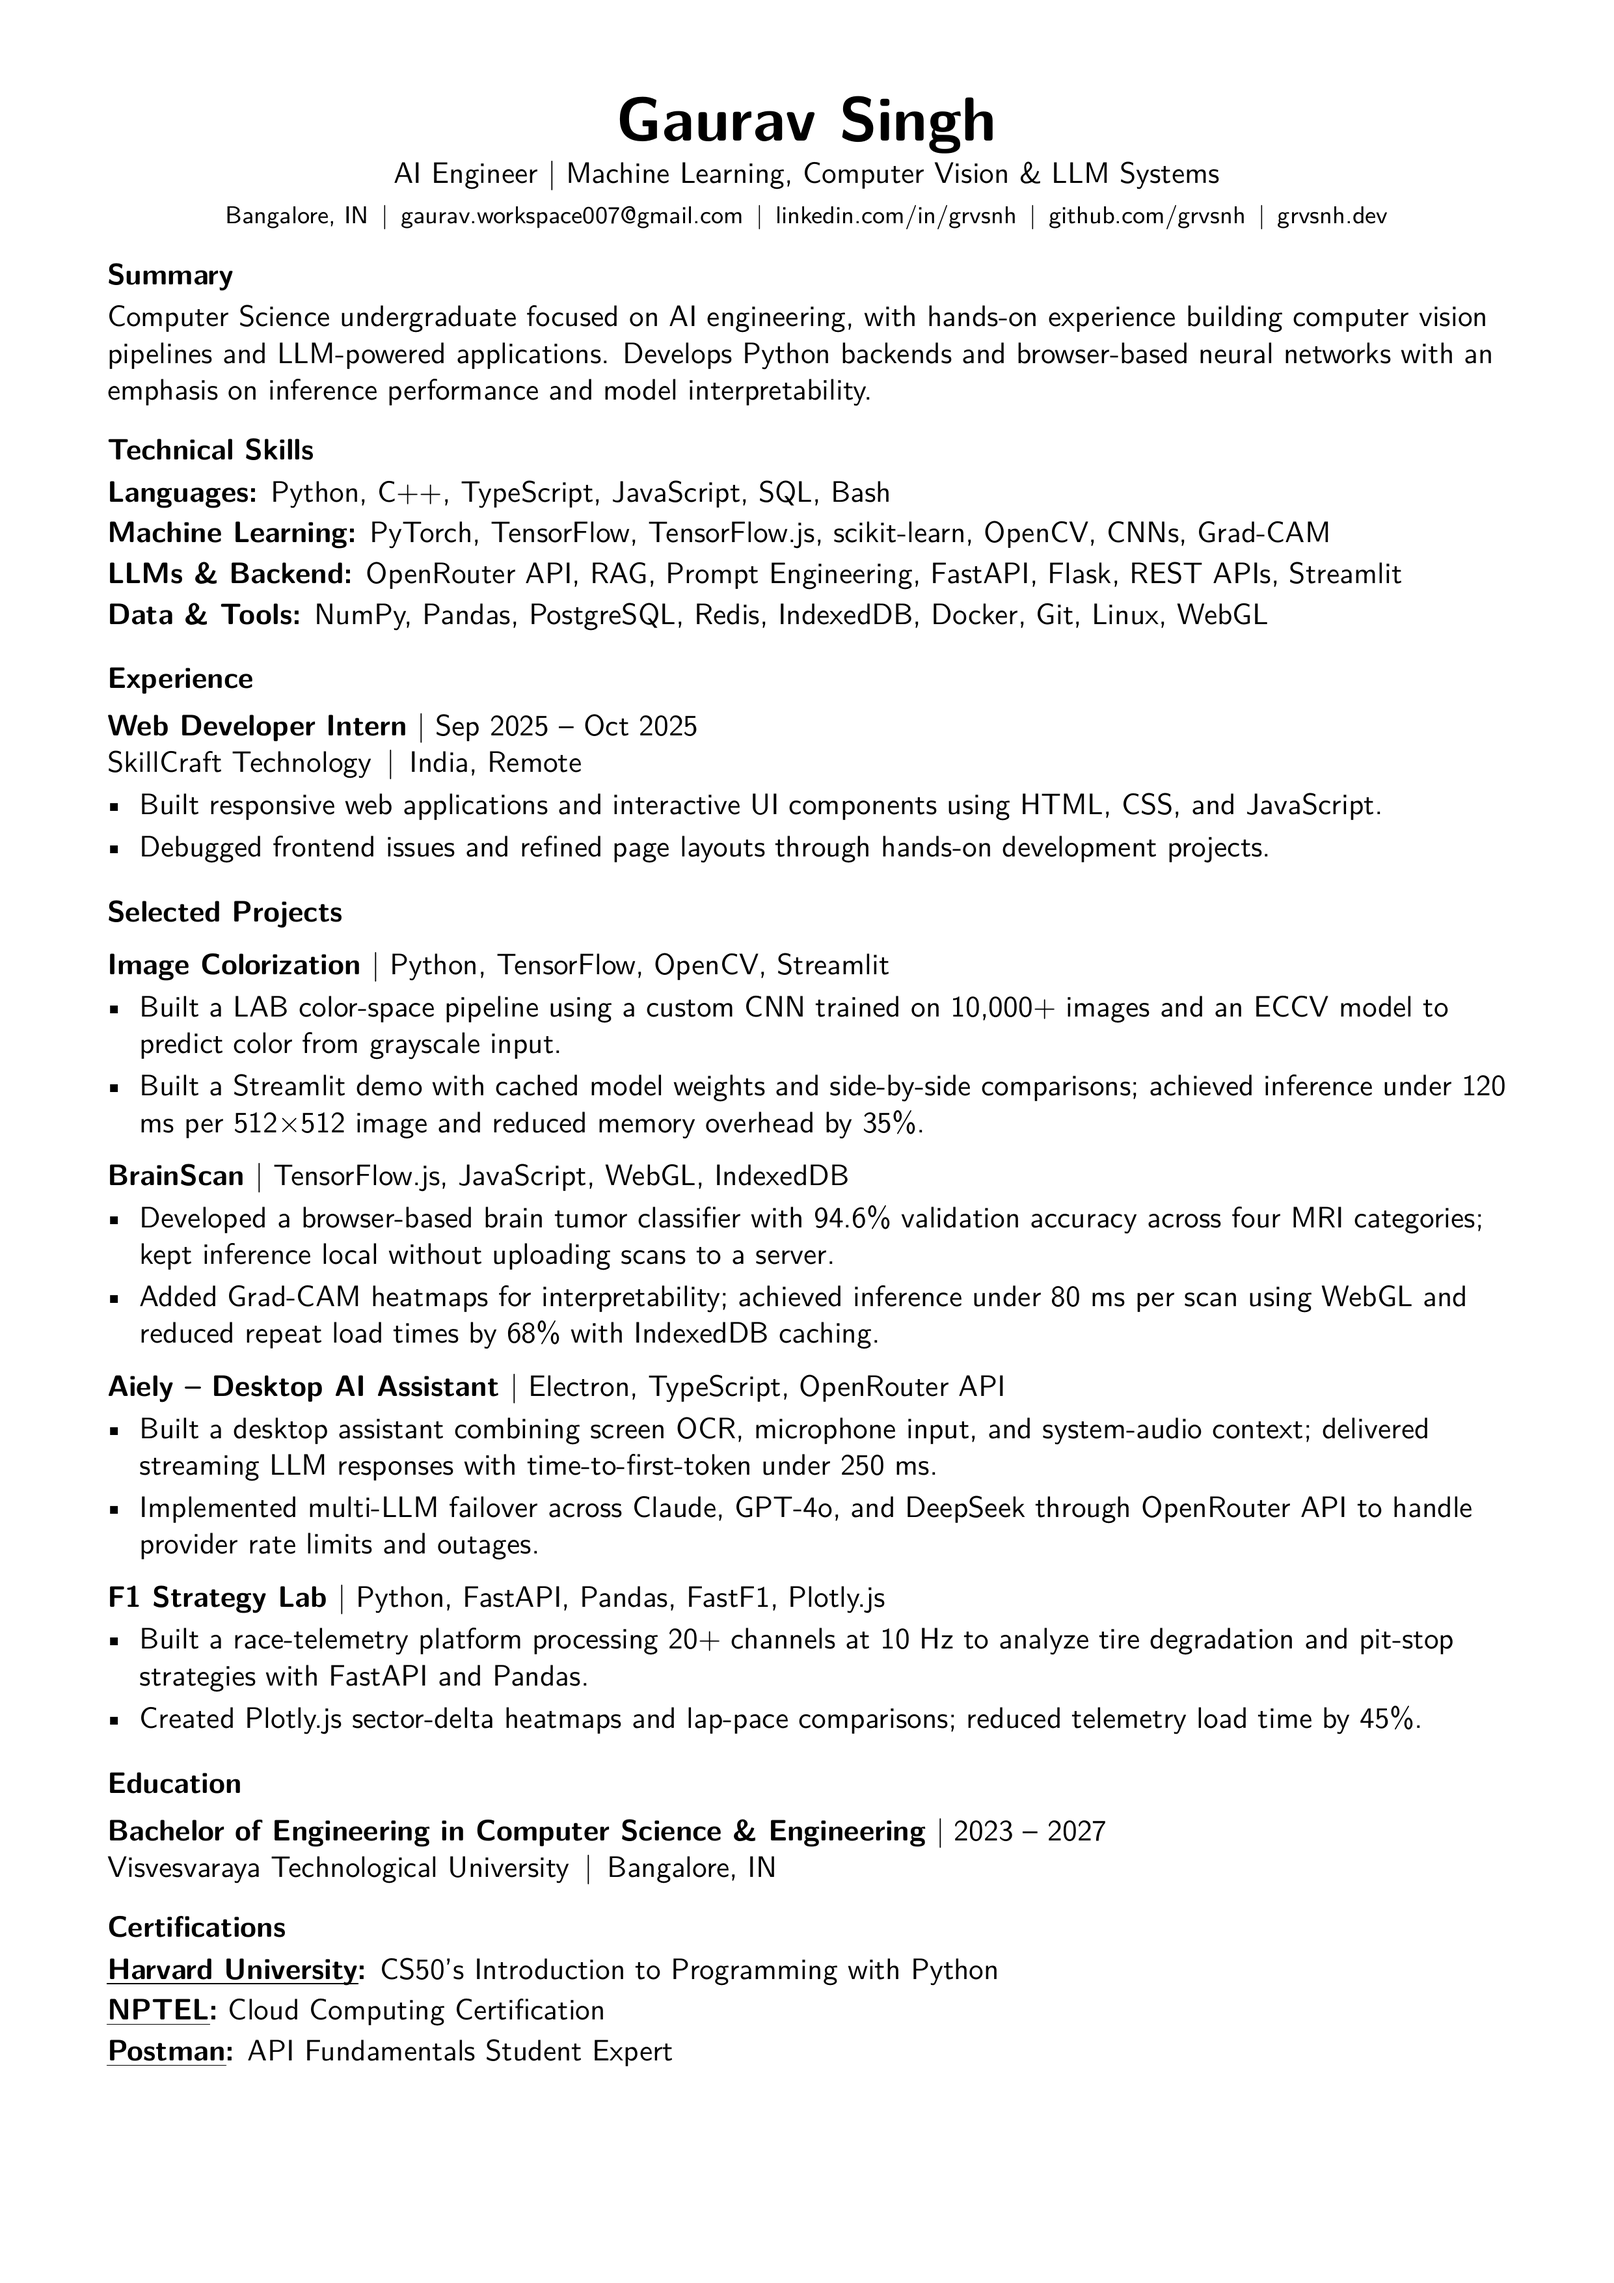
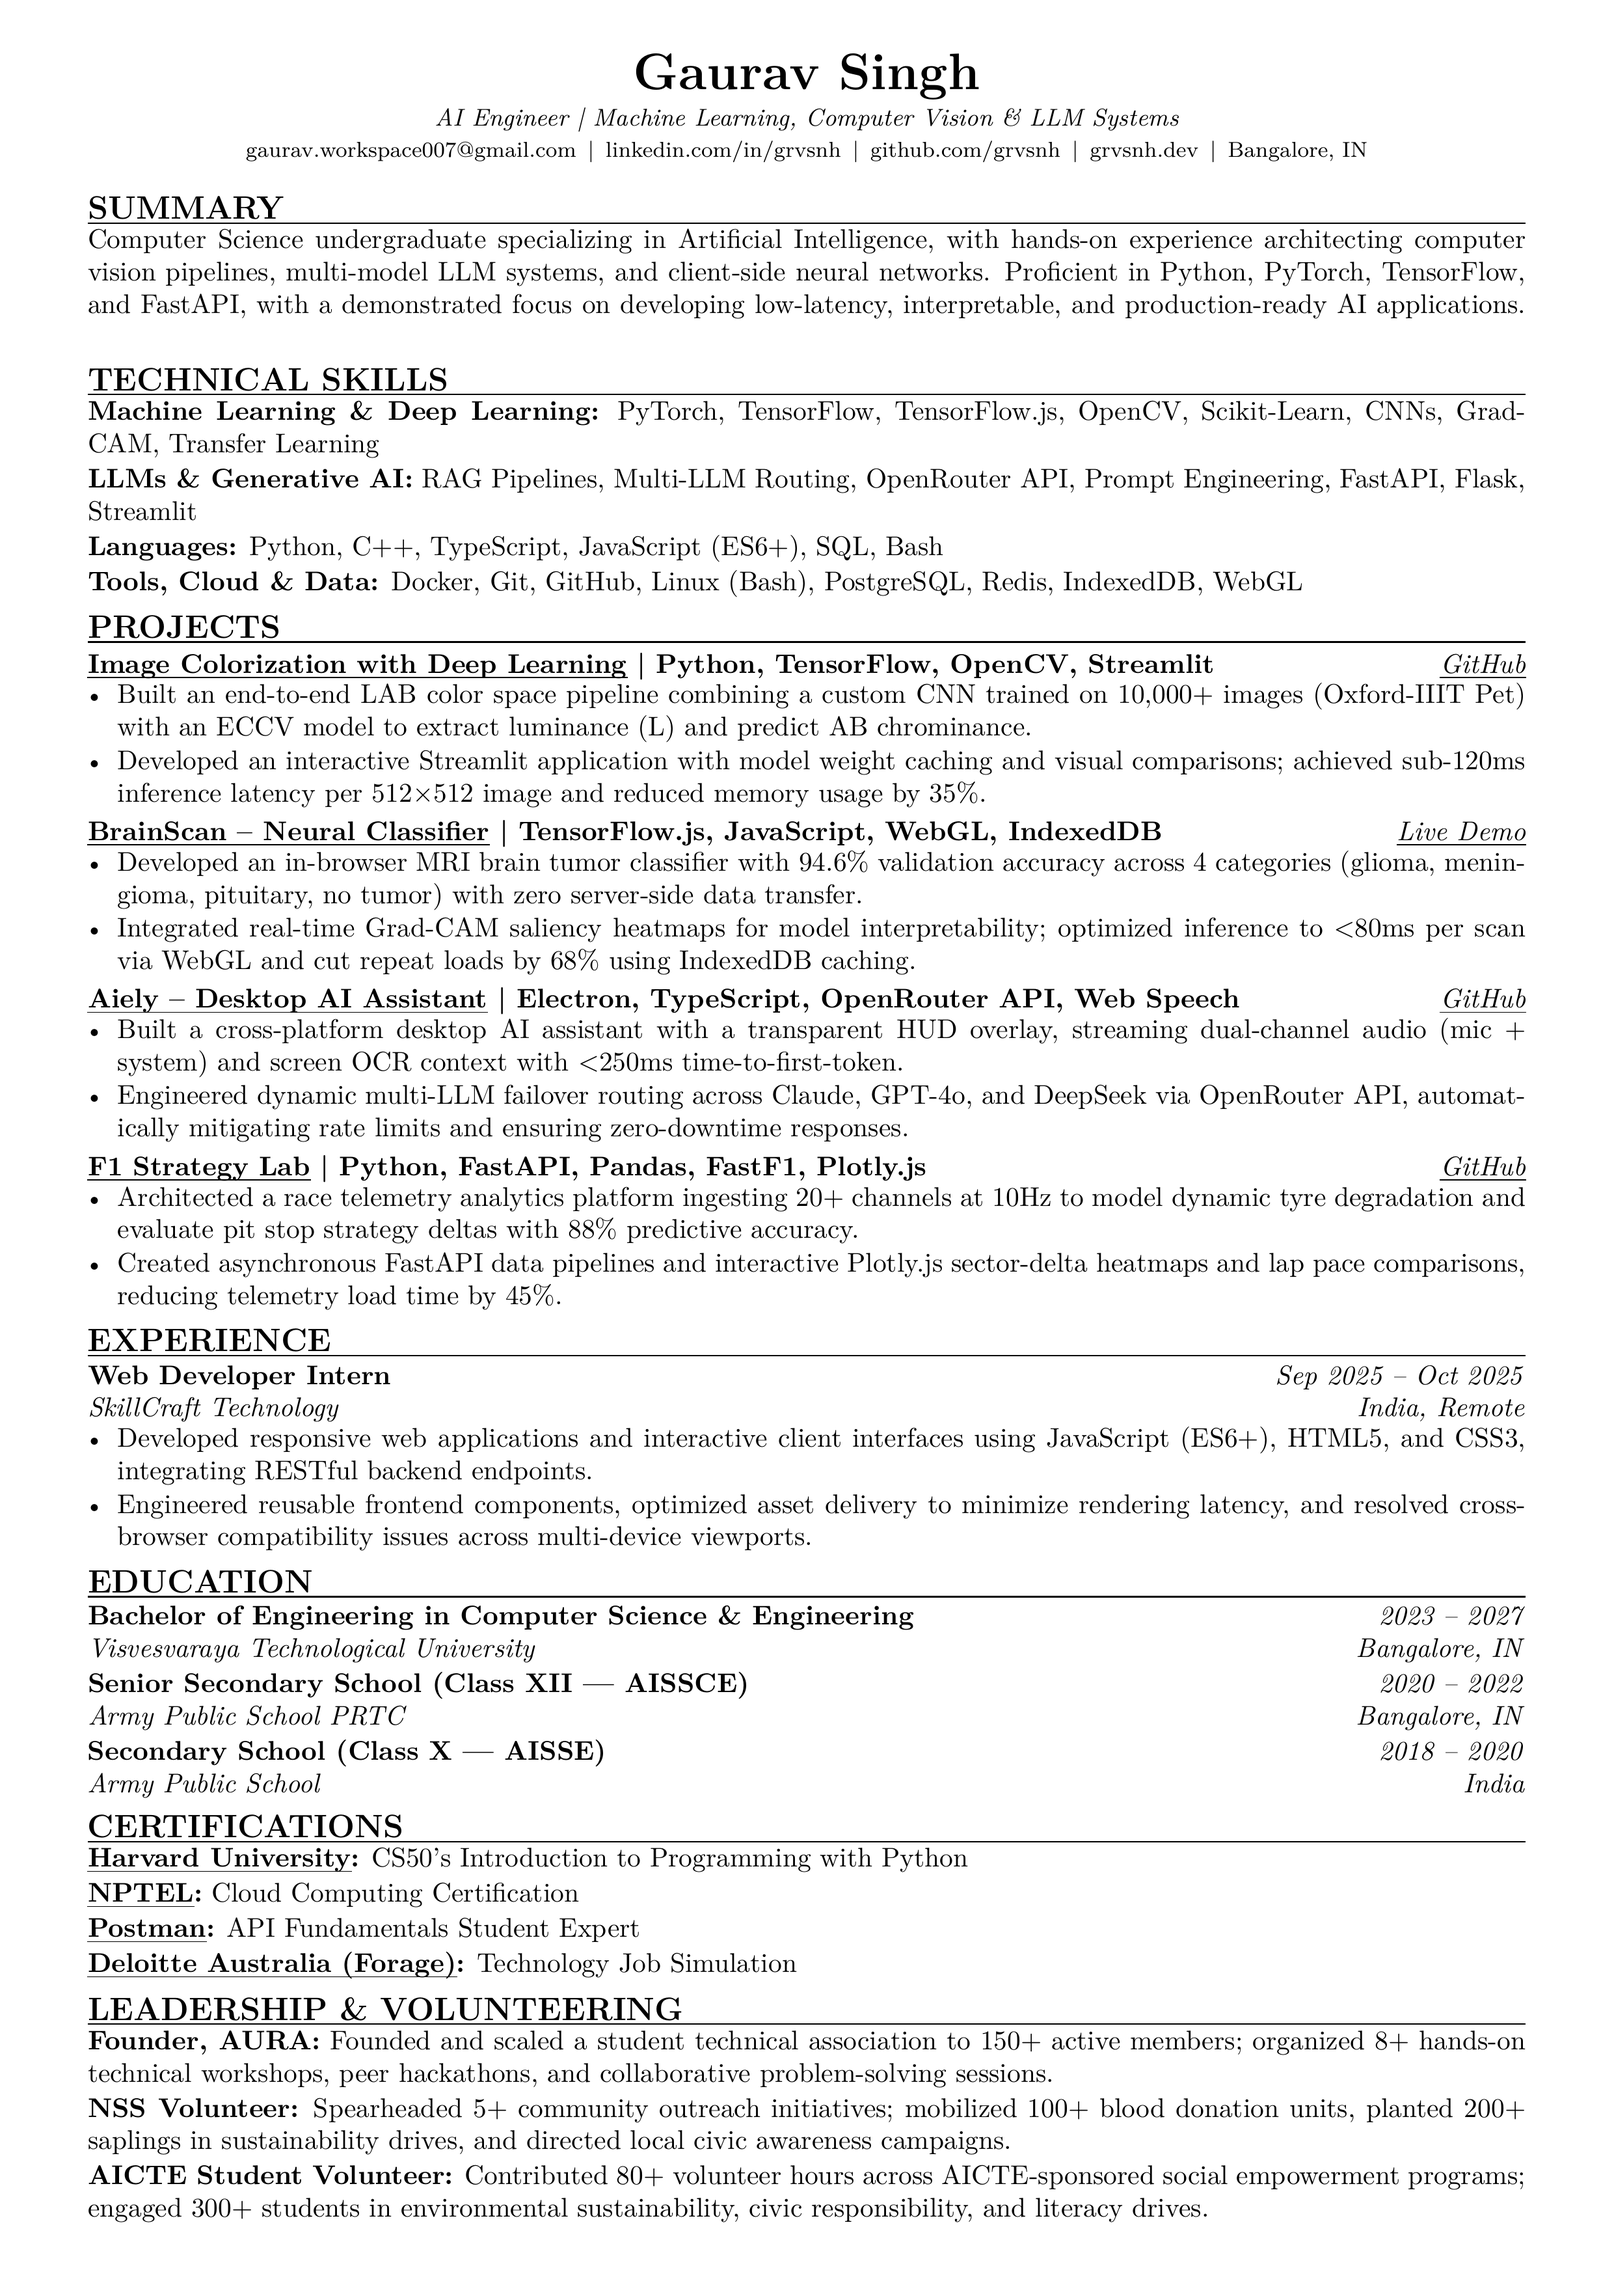
feat: complete full-page AI Engineer resume with full-width layout and right-aligned metadata

diff --git a/resume.tex b/resume.tex
@@ -1,6 +1,10 @@
 \documentclass{cv_template}
 
-% Candidate profile
+% --- Section Separators ---
+% Use \showrules to draw lines under section titles, or \hiderules to hide them.
+\showrules
+
+% Candidate Profile & Tagline
 \name{Gaurav Singh}
 \tagline{AI Engineer | Machine Learning, Computer Vision \& LLM Systems}
 
@@ -17,35 +21,37 @@
 % Render Header
 \makecvheader
 
-% --- Summary ---
+% --- Professional Summary ---
 \begin{cvsection}{Summary}
     \import{sections/}{summary.tex}
 \end{cvsection}
 
 % --- Technical Skills ---
 \begin{cvsection}{Technical Skills}
-    \import{sections/skills/}{languages-skills.tex}
     \import{sections/skills/}{ai-ml-skills.tex}
     \import{sections/skills/}{back-end-skills.tex}
+    \import{sections/skills/}{languages-skills.tex}
     \import{sections/skills/}{database-skills.tex}
 \end{cvsection}
 
-% --- Experience ---
-\begin{cvsection}{Experience}
-    \import{sections/experience/}{01-internship.tex}
-\end{cvsection}
-
-% --- Selected Projects ---
-\begin{cvsection}{Selected Projects}
+% --- Projects ---
+\begin{cvsection}{Projects}
     \import{sections/projects/}{Image-Colourizer.tex}
     \import{sections/projects/}{BrainScan.tex}
     \import{sections/projects/}{Aiely.tex}
     \import{sections/projects/}{f1-stratergy.tex}
 \end{cvsection}
 
+% --- Professional Experience ---
+\begin{cvsection}{Experience}
+    \import{sections/experience/}{01-internship.tex}
+\end{cvsection}
+
 % --- Education ---
 \begin{cvsection}{Education}
     \import{sections/education/}{btech.tex}
+    \import{sections/education/}{higher_school.tex}
+    \import{sections/education/}{high_school.tex}
 \end{cvsection}
 
 % --- Certifications ---
@@ -53,11 +59,15 @@
     \import{sections/certifications/}{cs50.tex}
     \import{sections/certifications/}{nptel_cc.tex}
     \import{sections/certifications/}{postman.tex}
+    \import{sections/certifications/}{deloitte.tex}
 \end{cvsection}
 
-% Other education, frontend, certification, and volunteering modules remain
-% available in sections/; select imports here when tailoring to another role.
+% --- Leadership & Volunteering ---
+\begin{cvsection}{Leadership \& Volunteering}
+    \import{sections/misc/}{aura.tex}
+    \import{sections/misc/}{nss.tex}
+    \import{sections/misc/}{aicte.tex}
+\end{cvsection}
 
 \end{fitpage}
 \end{document}
-

diff --git a/sections/projects/Image-Colourizer.tex b/sections/projects/Image-Colourizer.tex
@@ -1,4 +1,4 @@
-\begin{cvproject}{\href{https://github.com/grvsnh/Image-Colorization}{Image Colorization} \textnormal{\textbar\ Python, TensorFlow, OpenCV, Streamlit}}{}
-    \item Built a LAB color-space pipeline using a custom CNN trained on 10,000+ images and an ECCV model to predict color from grayscale input.
-    \item Built a Streamlit demo with cached model weights and side-by-side comparisons; achieved inference under 120 ms per 512$\times$512 image and reduced memory overhead by 35\%.
+\begin{cvproject}{\href{https://github.com/grvsnh/Image-Colorization}{\uline{Image Colorization with Deep Learning}} \textbar\ Python, TensorFlow, OpenCV, Streamlit}{\href{https://github.com/grvsnh/Image-Colorization}{\uline{GitHub}}}
+    \item Built an end-to-end LAB color space pipeline combining a custom CNN trained on 10,000+ images (Oxford-IIIT Pet) with an ECCV model to extract luminance (L) and predict AB chrominance.
+    \item Developed an interactive Streamlit application with model weight caching and visual comparisons; achieved sub-120ms inference latency per 512$\times$512 image and reduced memory usage by 35\%.
 \end{cvproject}

diff --git a/sections/projects/BrainScan.tex b/sections/projects/BrainScan.tex
@@ -1,4 +1,4 @@
-\begin{cvproject}{\href{https://grvchnx.github.io/brainscan/}{BrainScan} \textnormal{\textbar\ TensorFlow.js, JavaScript, WebGL, IndexedDB}}{}
-    \item Developed a browser-based brain tumor classifier with 94.6\% validation accuracy across four MRI categories; kept inference local without uploading scans to a server.
-    \item Added Grad-CAM heatmaps for interpretability; achieved inference under 80 ms per scan using WebGL and reduced repeat load times by 68\% with IndexedDB caching.
+\begin{cvproject}{\href{https://grvchnx.github.io/brainscan/}{\uline{BrainScan -- Neural Classifier}} \textbar\ TensorFlow.js, JavaScript, WebGL, IndexedDB}{\href{https://grvchnx.github.io/brainscan/}{\uline{Live Demo}}}
+    \item Developed an in-browser MRI brain tumor classifier with 94.6\% validation accuracy across 4 categories (glioma, meningioma, pituitary, no tumor) with zero server-side data transfer.
+    \item Integrated real-time Grad-CAM saliency heatmaps for model interpretability; optimized inference to $<$80ms per scan via WebGL and cut repeat loads by 68\% using IndexedDB caching.
 \end{cvproject}

diff --git a/sections/projects/Aiely.tex b/sections/projects/Aiely.tex
@@ -1,4 +1,4 @@
-\begin{cvproject}{\href{https://github.com/grvsnh/aiely}{Aiely -- Desktop AI Assistant} \textnormal{\textbar\ Electron, TypeScript, OpenRouter API}}{}
-    \item Built a desktop assistant combining screen OCR, microphone input, and system-audio context; delivered streaming LLM responses with time-to-first-token under 250 ms.
-    \item Implemented multi-LLM failover across Claude, GPT-4o, and DeepSeek through OpenRouter API to handle provider rate limits and outages.
+\begin{cvproject}{\href{https://github.com/grvsnh/aiely}{\uline{Aiely -- Desktop AI Assistant}} \textbar\ Electron, TypeScript, OpenRouter API, Web Speech}{\href{https://github.com/grvsnh/aiely}{\uline{GitHub}}}
+    \item Built a cross-platform desktop AI assistant with a transparent HUD overlay, streaming dual-channel audio (mic + system) and screen OCR context with $<$250ms time-to-first-token.
+    \item Engineered dynamic multi-LLM failover routing across Claude, GPT-4o, and DeepSeek via OpenRouter API, automatically mitigating rate limits and ensuring zero-downtime responses.
 \end{cvproject}

diff --git a/sections/projects/f1-stratergy.tex b/sections/projects/f1-stratergy.tex
@@ -1,4 +1,4 @@
-\begin{cvproject}{\href{https://github.com/grvsnh/f1-strategy-lab}{F1 Strategy Lab} \textnormal{\textbar\ Python, FastAPI, Pandas, FastF1, Plotly.js}}{}
-    \item Built a race-telemetry platform processing 20+ channels at 10 Hz to analyze tire degradation and pit-stop strategies with FastAPI and Pandas.
-    \item Created Plotly.js sector-delta heatmaps and lap-pace comparisons; reduced telemetry load time by 45\%.
+\begin{cvproject}{\href{https://github.com/grvsnh/f1-strategy-lab}{\uline{F1 Strategy Lab}} \textbar\ Python, FastAPI, Pandas, FastF1, Plotly.js}{\href{https://github.com/grvsnh/f1-strategy-lab}{\uline{GitHub}}}
+    \item Architected a race telemetry analytics platform ingesting 20+ channels at 10Hz to model dynamic tyre degradation and evaluate pit stop strategy deltas with 88\% predictive accuracy.
+    \item Created asynchronous FastAPI data pipelines and interactive Plotly.js sector-delta heatmaps and lap pace comparisons, reducing telemetry load time by 45\%.
 \end{cvproject}

diff --git a/sections/experience/01-internship.tex b/sections/experience/01-internship.tex
@@ -1,4 +1,4 @@
 \begin{cventry}{Web Developer Intern}{SkillCraft Technology}{India, Remote}{Sep 2025 -- Oct 2025}
-    \item Built responsive web applications and interactive UI components using HTML, CSS, and JavaScript.
-    \item Debugged frontend issues and refined page layouts through hands-on development projects.
+    \item Developed responsive web applications and interactive client interfaces using JavaScript (ES6+), HTML5, and CSS3, integrating RESTful backend endpoints.
+    \item Engineered reusable frontend components, optimized asset delivery to minimize rendering latency, and resolved cross-browser compatibility issues across multi-device viewports.
 \end{cventry}

diff --git a/sections/summary.tex b/sections/summary.tex
@@ -1,1 +1,1 @@
-Computer Science undergraduate focused on AI engineering, with hands-on experience building computer vision pipelines and LLM-powered applications. Develops Python backends and browser-based neural networks with an emphasis on inference performance and model interpretability.
+Computer Science undergraduate specializing in Artificial Intelligence, with hands-on experience architecting computer vision pipelines, multi-model LLM systems, and client-side neural networks. Proficient in Python, PyTorch, TensorFlow, and FastAPI, with a demonstrated focus on developing low-latency, interpretable, and production-ready AI applications.

diff --git a/sections/skills/ai-ml-skills.tex b/sections/skills/ai-ml-skills.tex
@@ -1,1 +1,1 @@
-\cvskill{Machine Learning}{PyTorch, TensorFlow, TensorFlow.js, scikit-learn, OpenCV, CNNs, Grad-CAM}
+\cvskill{Machine Learning \& Deep Learning}{PyTorch, TensorFlow, TensorFlow.js, OpenCV, Scikit-Learn, CNNs, Grad-CAM, Transfer Learning}

diff --git a/sections/skills/back-end-skills.tex b/sections/skills/back-end-skills.tex
@@ -1,1 +1,1 @@
-\cvskill{LLMs \& Backend}{OpenRouter API, RAG, Prompt Engineering, FastAPI, Flask, REST APIs, Streamlit}
+\cvskill{LLMs \& Generative AI}{RAG Pipelines, Multi-LLM Routing, OpenRouter API, Prompt Engineering, FastAPI, Flask, Streamlit}

diff --git a/sections/skills/database-skills.tex b/sections/skills/database-skills.tex
@@ -1,1 +1,1 @@
-\cvskill{Data \& Tools}{NumPy, Pandas, PostgreSQL, Redis, IndexedDB, Docker, Git, Linux, WebGL}
+\cvskill{Tools, Cloud \& Data}{Docker, Git, GitHub, Linux (Bash), PostgreSQL, Redis, IndexedDB, WebGL}

diff --git a/sections/skills/languages-skills.tex b/sections/skills/languages-skills.tex
@@ -1,1 +1,1 @@
-\cvskill{Languages}{Python, C++, TypeScript, JavaScript, SQL, Bash}
+\cvskill{Languages}{Python, C++, TypeScript, JavaScript (ES6+), SQL, Bash}

diff --git a/README.md b/README.md
@@ -8,7 +8,7 @@ A modular, ATS-optimized single-page resume built with LaTeX and powered by GitH
 
 <p align="center">
   <a href="https://github.com/grvsnh/Resume-Latex/releases/latest/download/resume-ai-engineer.pdf">
-    <img src="resume-preview.png" alt="Gaurav Singh Resume Preview" width="800" />
+    <img src="resume-preview.png?raw=true" alt="Gaurav Singh Resume Preview" width="800" />
   </a>
 </p>
 
